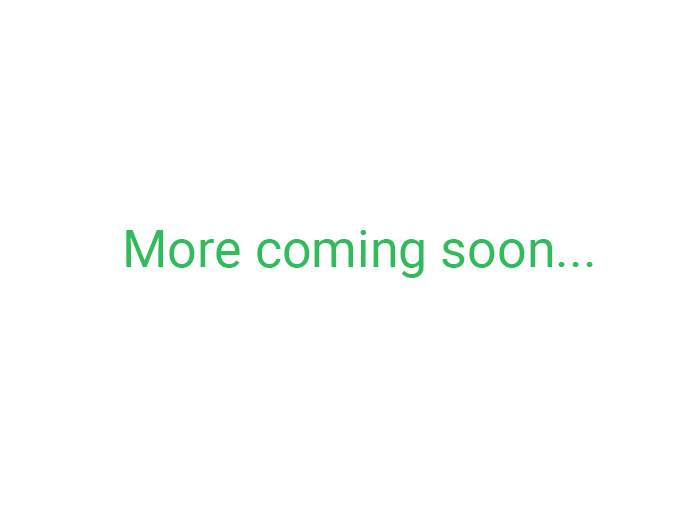
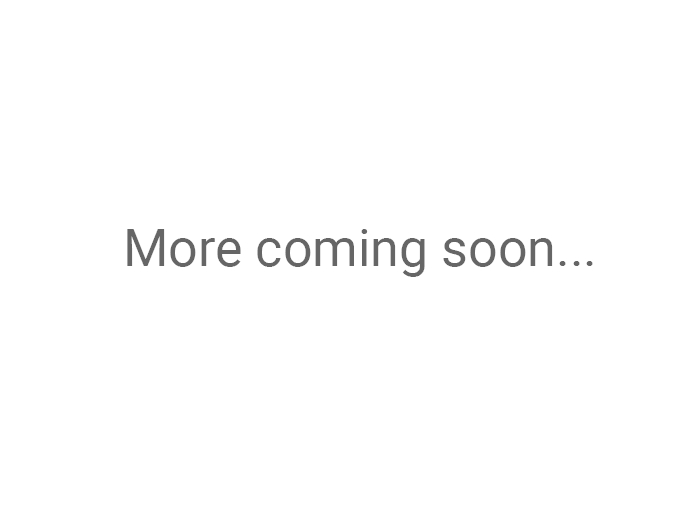
color changes

Changed region(s): [[0.1826, 0.4226, 0.8522, 0.5434]]

diff --git a/static/js/util/util.js b/static/js/util/util.js
@@ -67,13 +67,13 @@ export function makeProfileProgressDisplay(active: string) {
       fontWeight: 400,
     },
     current: {
-      fill: "#30BB5C",
+      fill: "#626262",
       circleText: "white",
       text: "black",
       fontWeight: 700,
     },
     future: {
-      fill: "#f5f5f5",
+      fill: "#ffffff",
       circleText: "#888888",
       text: lightGreyText,
       fontWeight: 400,
@@ -161,8 +161,8 @@ export function makeProfileProgressDisplay(active: string) {
           x2={nextCircleX - radius}
           y1={circleY}
           y2={circleY}
-          stroke={"#ececec"}
-          strokeWidth={2}
+          stroke={"#999999"}
+          strokeWidth={1}
         />
       );
     }
@@ -176,7 +176,7 @@ export function makeProfileProgressDisplay(active: string) {
 
 /* eslint-disable camelcase */
 /**
- * Generate new education object 
+ * Generate new education object
  */
 export function generateNewEducation(level: string): EducationEntry {
   return {

diff --git a/static/scss/homepage.scss b/static/scss/homepage.scss
@@ -200,7 +200,7 @@ body.app-media {
 }
 
 .sub-banner {
-  background: $bg-med-gray;
+  background: #e4e4e4;
 }
 
 .sub-banner-section{
@@ -272,7 +272,7 @@ body.app-media {
 }
 
 .reasons-section, .current-programs-section {
-  padding: 7vw 0 8vw;
+  padding: 6vw 0 8vw;
   margin: 0;
   text-align: center;
   .centered-content {
@@ -346,7 +346,7 @@ body.app-media {
 
 .current-programs-section {
   margin: 0;
-  background-color: #151515;
+  background-color: #1d1d1d;
 
   .col-md-12 {
     width: 97%;
@@ -379,10 +379,6 @@ body.app-media {
       margin-top: 12px;
       background: #cccccc;
       color: #333333;
-    }
-
-    a{
-      color: #289fdc;
     }
   }
 
@@ -433,7 +429,7 @@ body.app-media {
 }
 
 .reasons-section {
-  background-color: $mm-brand-bg-dark;
+  background-color: $mm-brand-bg;
 
   .col-md-4 {
     padding: 0 3%;

diff --git a/static/scss/_button.scss b/static/scss/_button.scss
@@ -15,12 +15,12 @@
   cursor: pointer;
 
   &.main-action {
-    background-color: $mm-brand-bg;
+    background-color: $bg-blue-buttons;
     color: white;
   }
 
   &.signup {
-    background-color: $mm-brand-bg;
+    background-color: $bg-blue-buttons;
     color: white;
     text-transform: none;
     display: block;
@@ -53,7 +53,7 @@
 }
 
 .dashboard-button {
-  background-color: $mm-brand-bg;
+  background-color: $bg-blue-buttons;
   color: white;
   text-align: center;
   font-size: small;
@@ -61,7 +61,7 @@
   font-weight: 400;
 
   &[disabled] {
-    background-color: adjust-color($dashboard-button-teal, $alpha: -0.5);
+    background-color: adjust-color($bg-blue-buttons, $alpha: -0.5);
   }
 }
 

diff --git a/static/scss/_variables.scss b/static/scss/_variables.scss
@@ -5,7 +5,7 @@ $font-black: rgba(0,0,0,.87);
 $font-gray: #6f6f6f;
 $font-gray-light: #9c9c9c;
 $font-gray-disabled: rgba(0,0,0,.2);
-$link-text: #0074e1;
+$link-text: #4c8399;
 
 //background colors
 $mm-brand-bg: #A31F34;  // green 30bb5c alt bb3097 058aca #2188e3 b13843 16b379 ca4444 a41e34 a23939
@@ -19,6 +19,7 @@ $bg-light-blue: #cbe6f3;
 $bg-light-gray: #fbfbfb;
 $bg-med-gray: #ececec;
 $black-transparent: rgba(0, 0, 0, 0.9);
+$bg-blue-buttons: #1885c5;
 
 //current colors - figure out what these all are
 $darkgrey: #696969;

diff --git a/static/scss/search-page.scss b/static/scss/search-page.scss
@@ -37,6 +37,10 @@
     flex-direction: column;
     background-color: none;
 
+    .sticky {
+      top: 10px !important;
+    }
+
     .mdl-card {
       padding: 10px;
       background-color: $bg-light-gray;
@@ -125,7 +129,7 @@
       }
 
       .sk-range-histogram__bar {
-        background-color: $mm-brand-bg;
+        background-color: $bg-blue-buttons;
       }
 
       .is-out-of-bounds {

diff --git a/static/js/util/profile_edit.js b/static/js/util/profile_edit.js
@@ -163,7 +163,7 @@ export function boundCheckbox(keySet: string[], label: string|React$Element<*>):
   };
 
   const style = {
-    'backgroundColor': '#30BB5C'
+    'backgroundColor': '#A31F34'
   };
 
   return (
